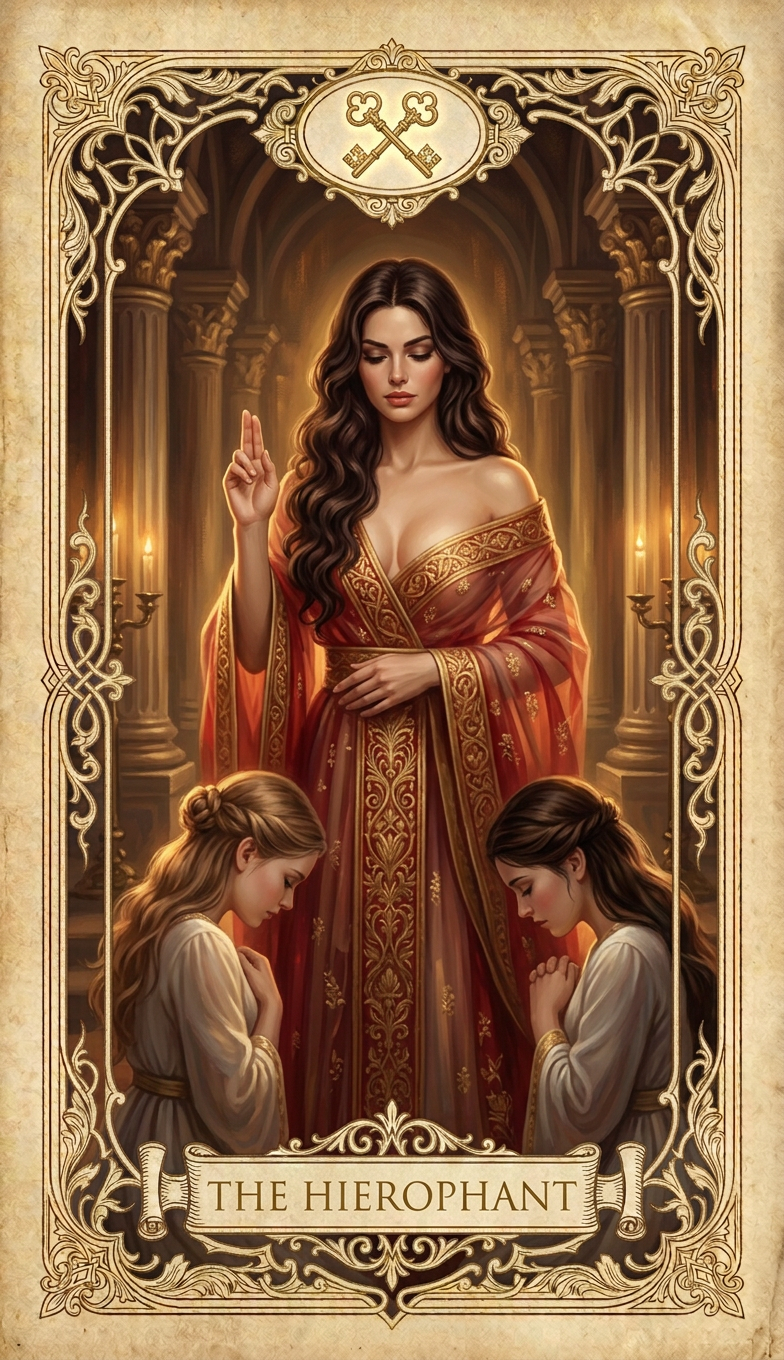
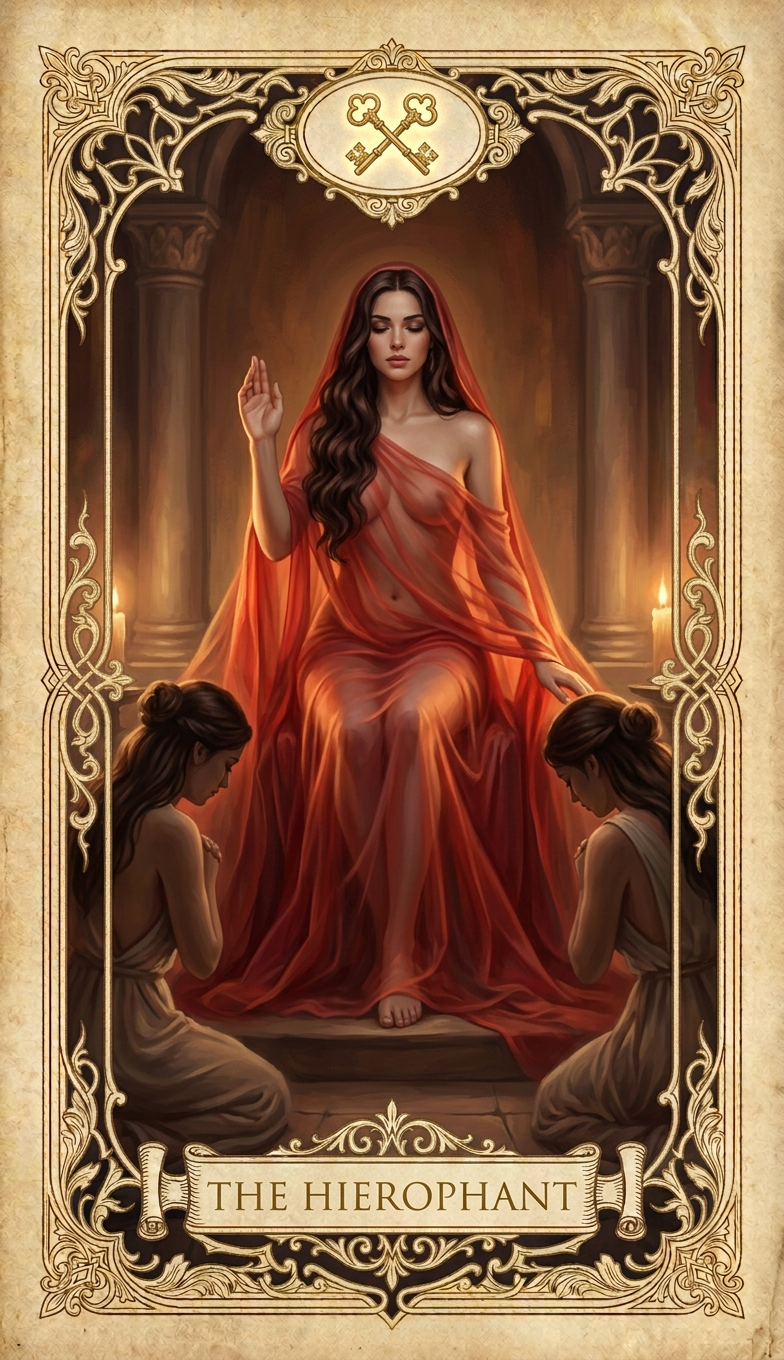
The Hierophant: more sensual, transparent silk veil
Regenerated with heightened sensuality: clothing minimized to a diaphanous
transparent red silk veil slipping off one shoulder. Also fixed the hair
description (was referencing the old ceremonial vestments). Frame-verified
vs The Star (RMSE 0.020).

diff --git a/cards/index.html b/cards/index.html
@@ -118,7 +118,7 @@
             <div class="card-details">
                 <div class="card-title">THE HIEROPHANT</div>
                 <div class="card-meta"><strong>Độ tuổi:</strong> 24 years old &bull; <strong>Huy hiệu:</strong> two crossed golden keys</div>
-                <div class="card-scene">a serene 24-year-old female high mystic priestess in sheer red-and-gold ceremonial vestments that leave her shoulders and the curve of one breast bare, raising one blessing hand, two kneeling female acolytes before her, sacred temple pillars behind</div>
+                <div class="card-scene">a serene 24-year-old female high mystic priestess draped only in a diaphanous transparent red silk veil so fine it clings to her curves and glows with warm candlelight against her skin, the gossamer-thin fabric slipping from one shoulder, raising one blessing hand, two kneeling female acolytes before her, sacred temple pillars behind</div>
             </div>
         </div>
         <div class="card-item">
